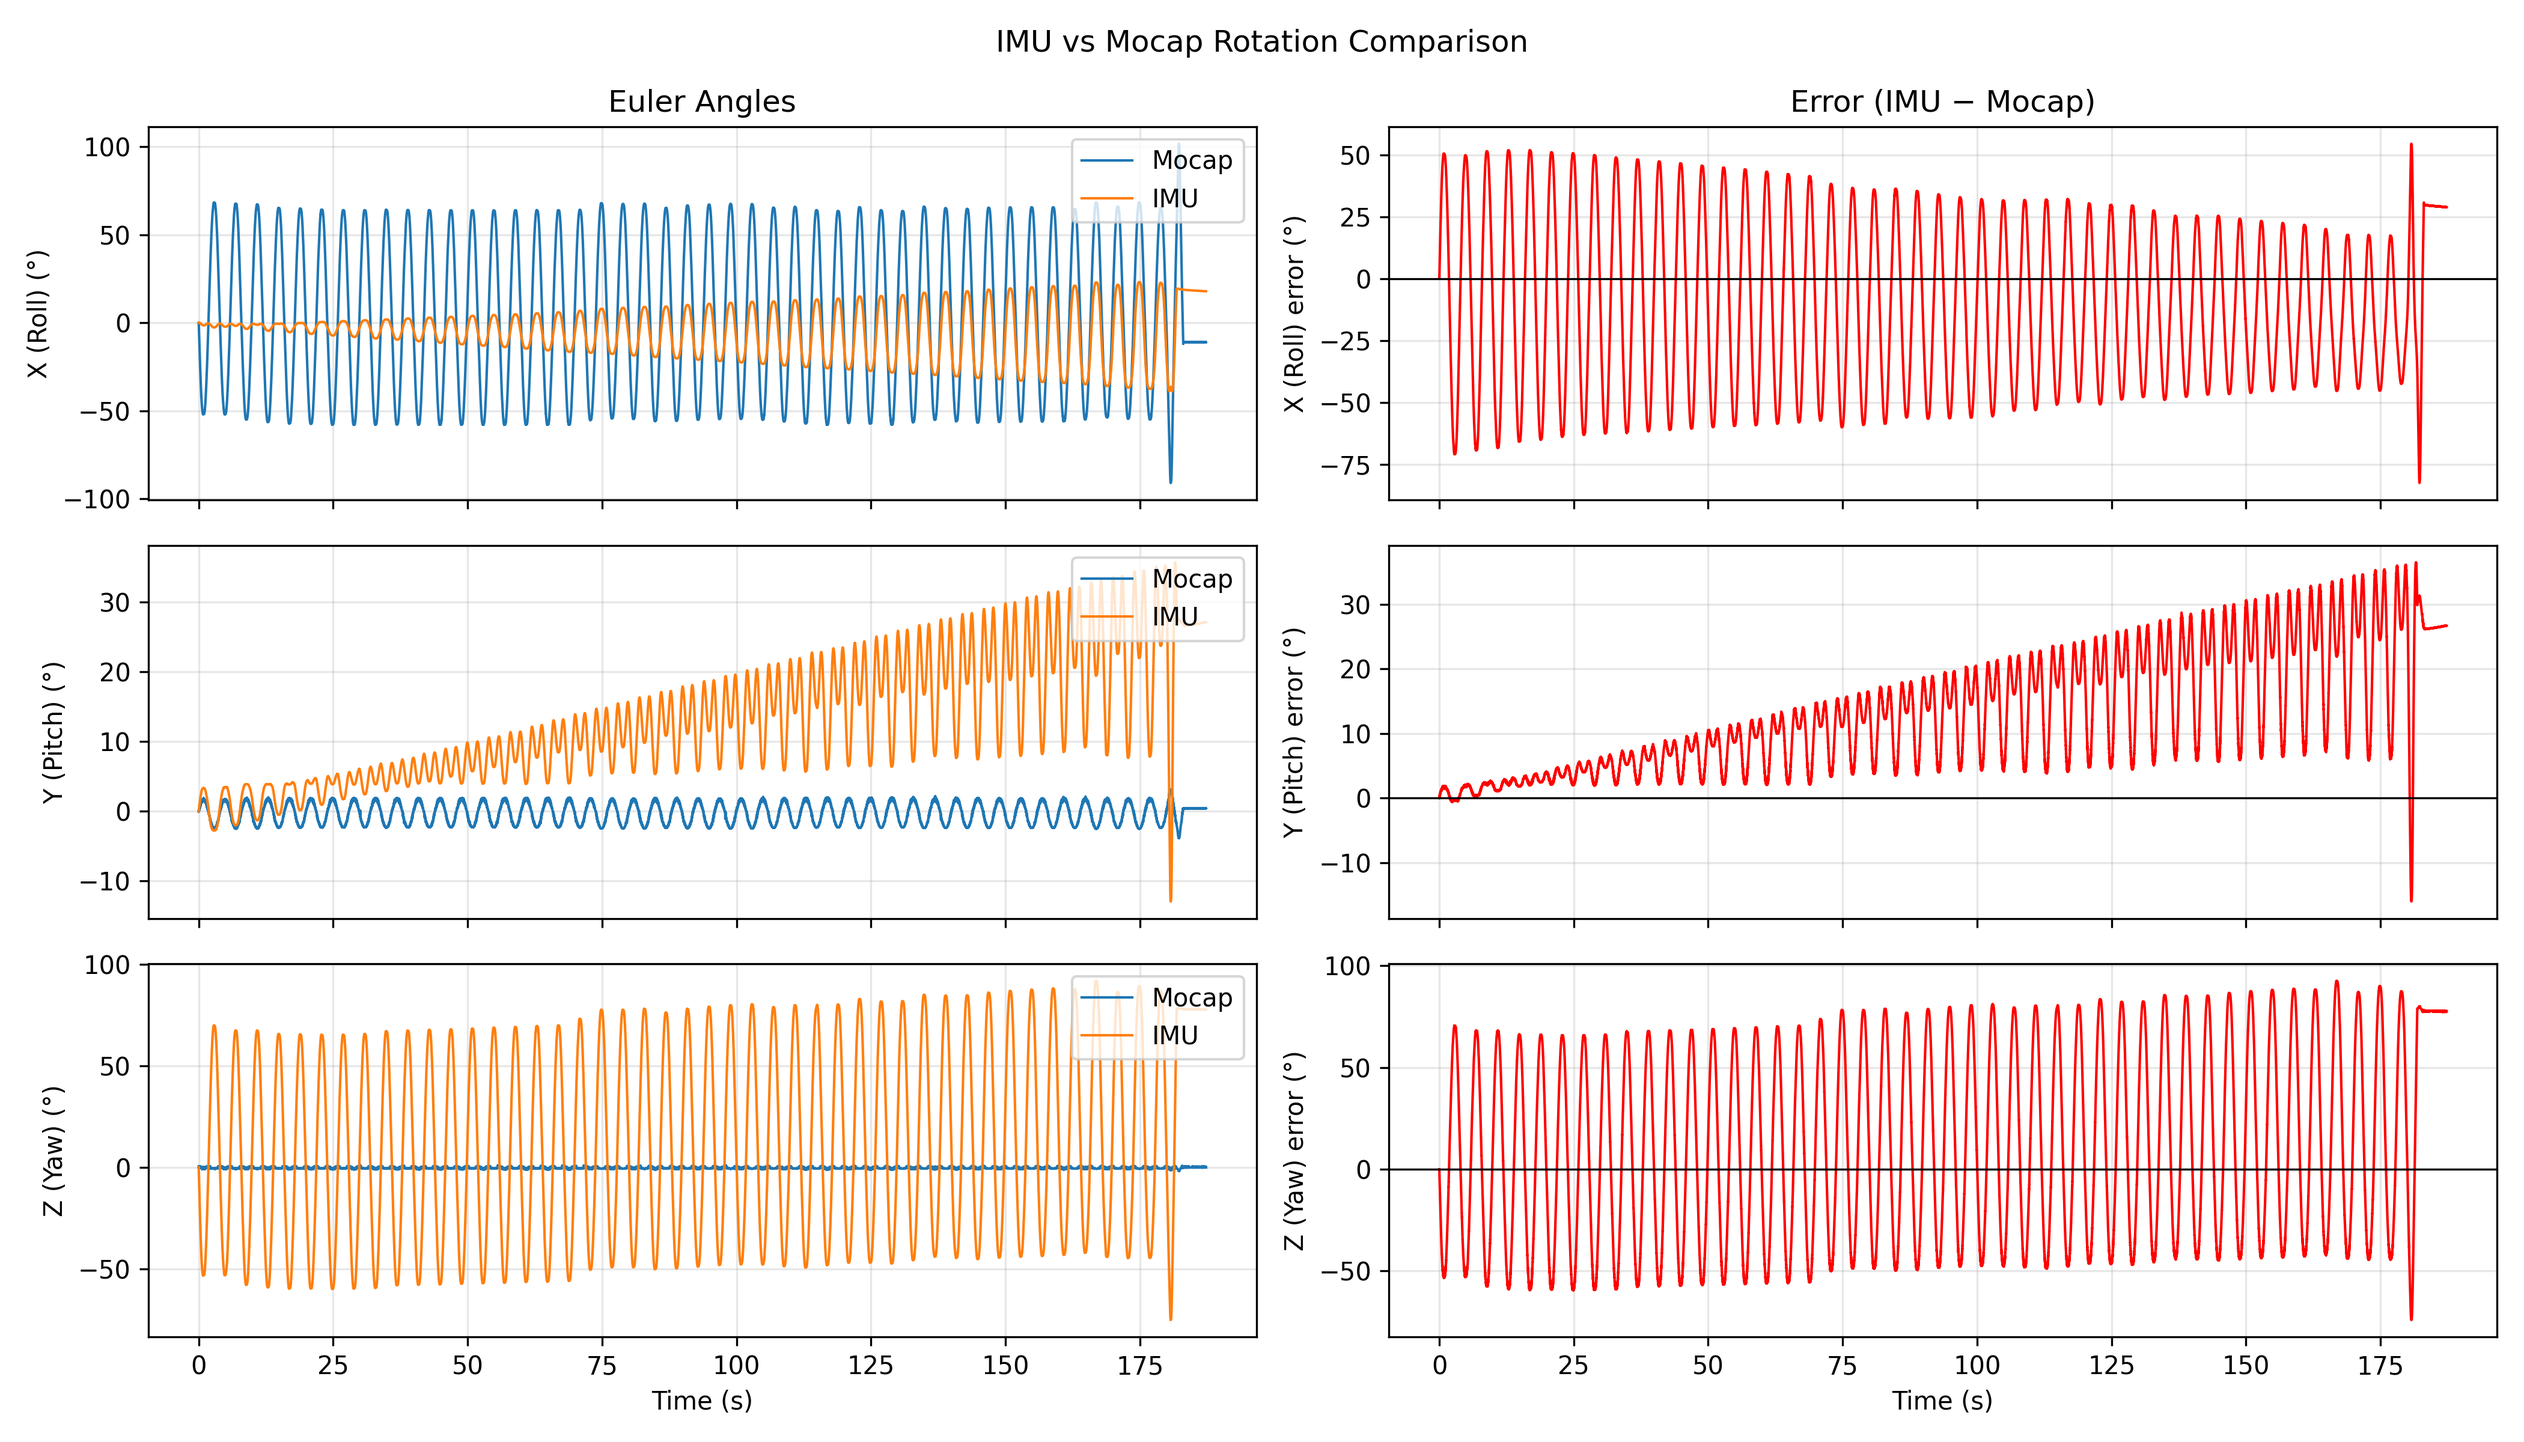
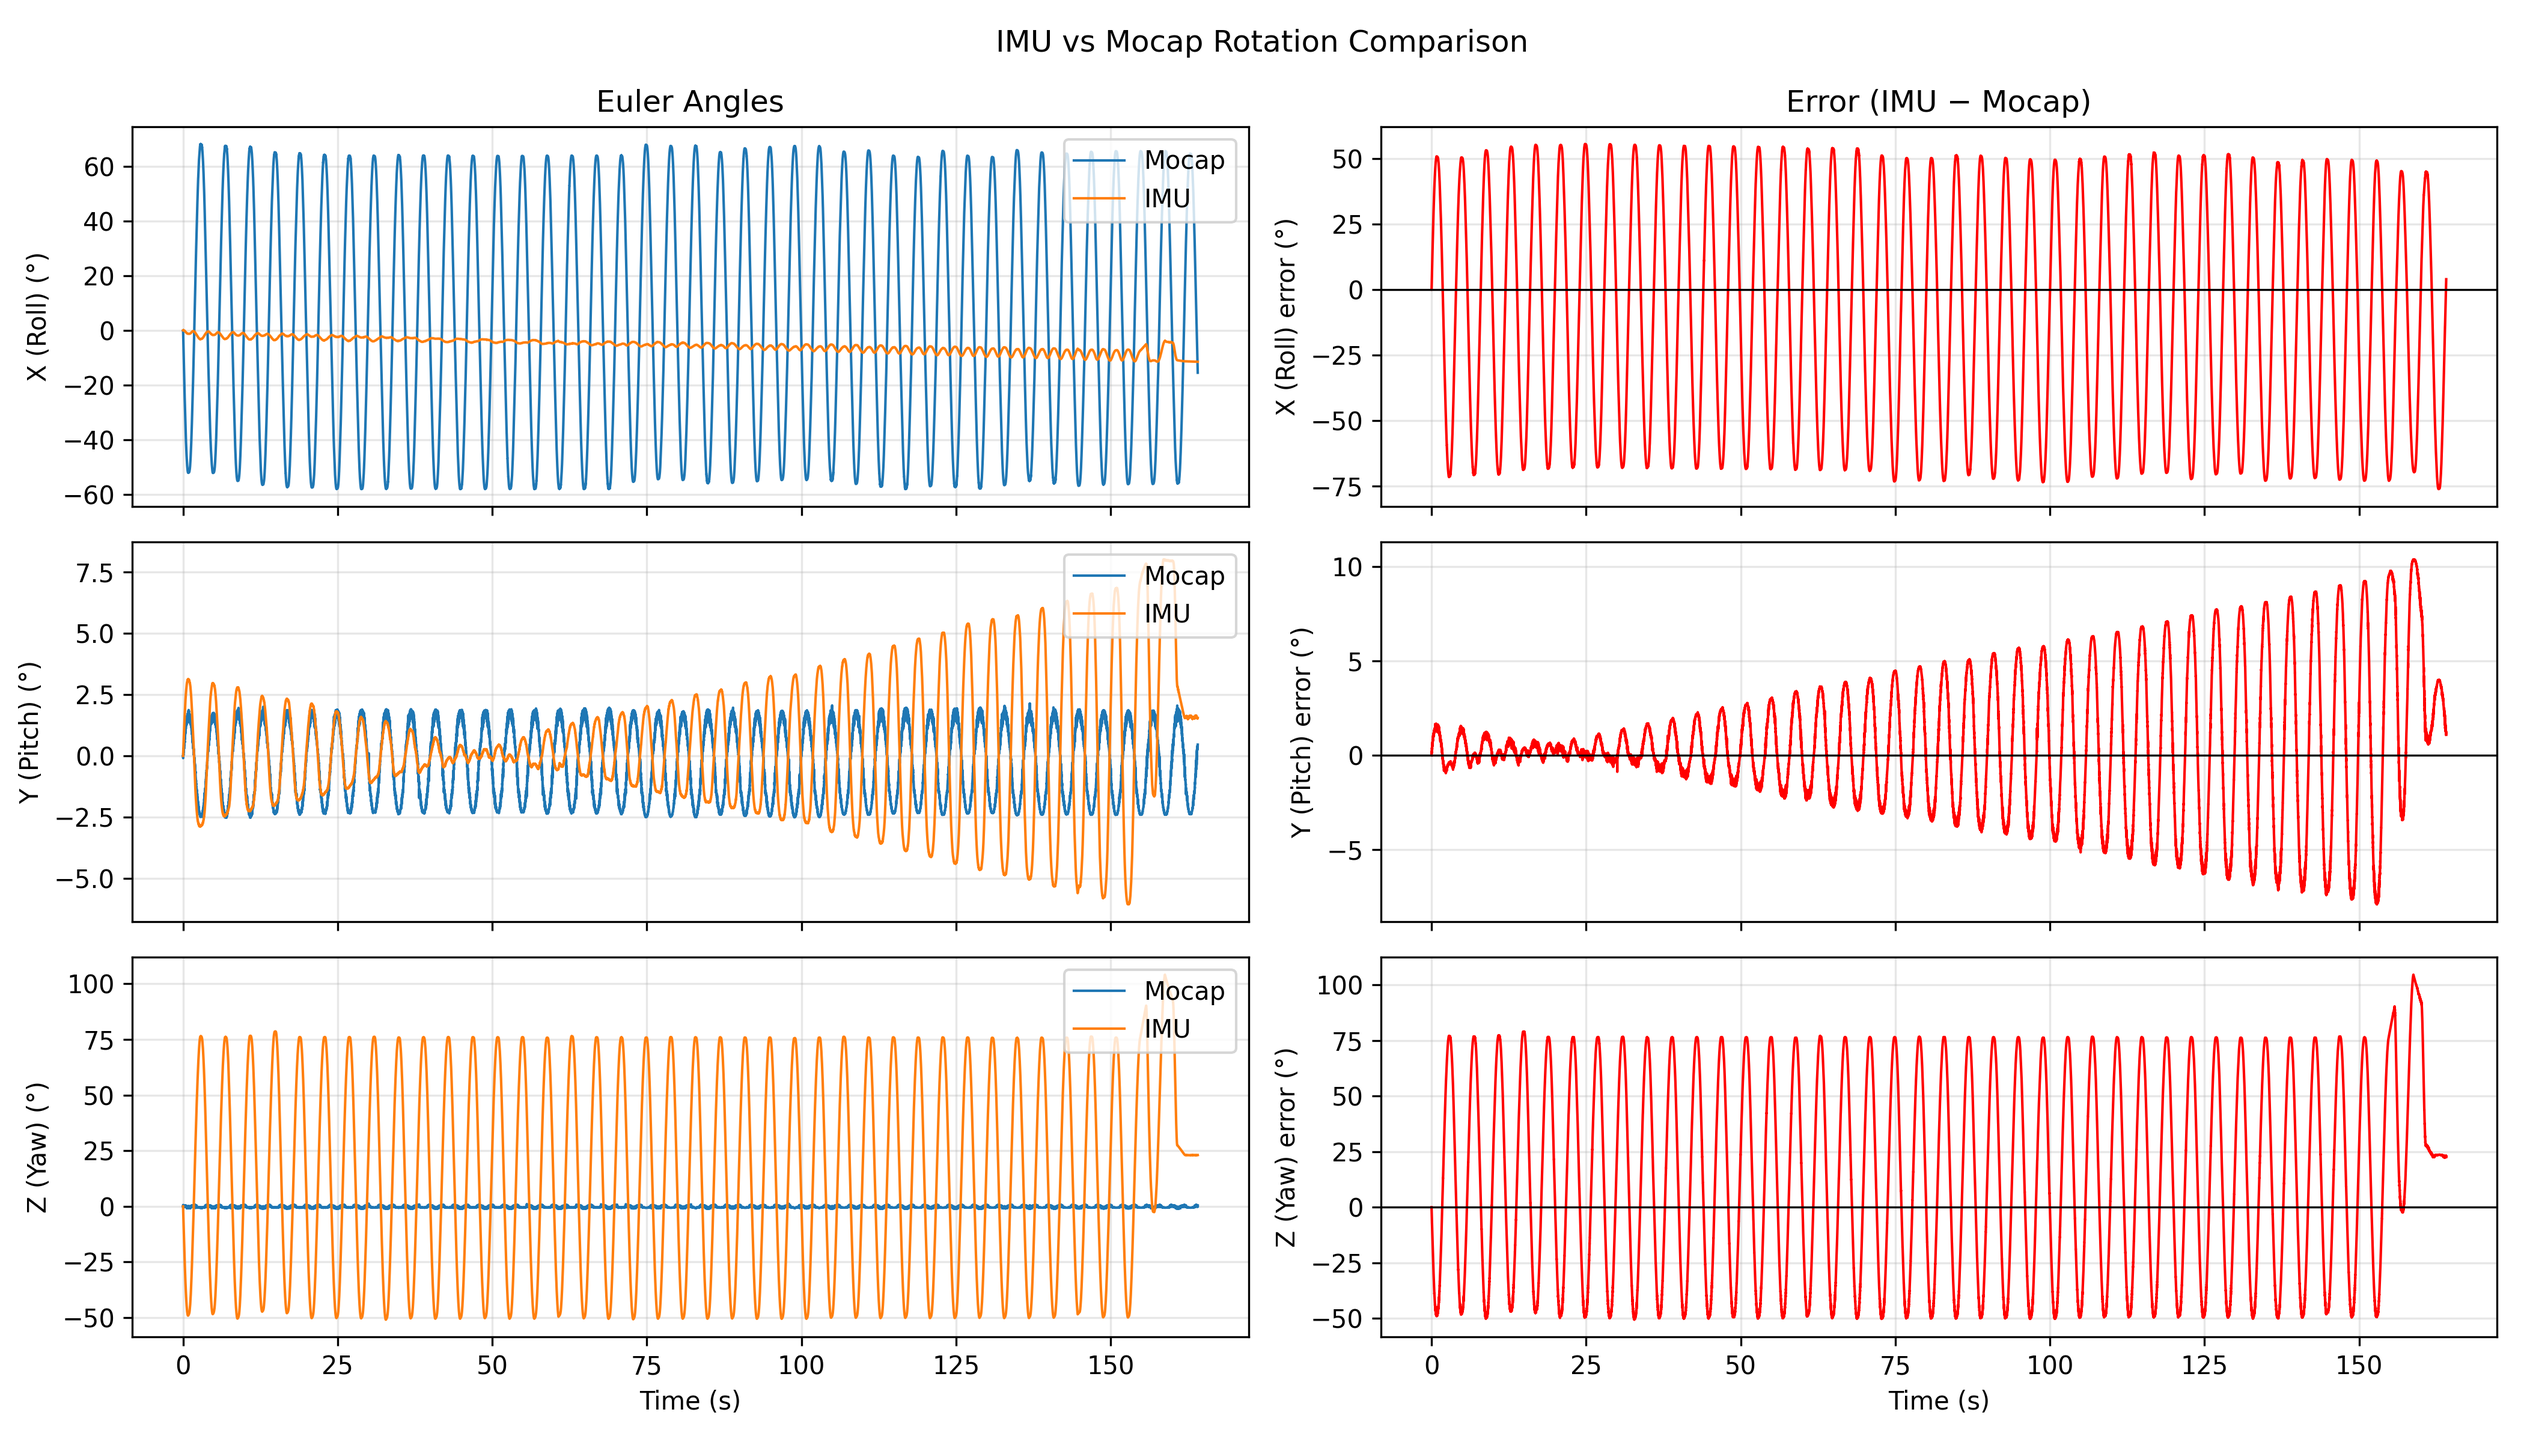
use new filter

diff --git a/verification/script.py b/verification/script.py
@@ -5,6 +5,9 @@ import pandas as pd
 from loguru import logger
 from scipy.spatial.transform import Rotation, Slerp
 import numpy as np
+from calculate_orientation import calculate_orientation
+from imu_python.base_classes import Quaternion
+from imu_python.utils import setup_logger
 
 def parse_mocap_csv(filepath: str | Path) -> pd.DataFrame:
     """Parse a Vicon-style mocap CSV:
@@ -29,13 +32,13 @@ def parse_imu_csv(filepath: str | Path) -> pd.DataFrame:
 
     return df
 
-def quats_to_rotations(df: pd.DataFrame) -> Rotation:
+def quats_to_rotations(quats: list[Quaternion]) -> Rotation:
     """Convert a DataFrame with columns w, x, y, z to a scipy Rotation object.
 
     Returns a Rotation instance containing one rotation per row in the DataFrame.
     """
-    quats = df[["w", "x", "y", "z"]].to_numpy()
-    return Rotation.from_quat(quats, scalar_first=True)
+    quats_array = np.array([[q.w, q.x, q.y, q.z] for q in quats])
+    return Rotation.from_quat(quats_array, scalar_first=True)
 
 def euler_to_rotations(df: pd.DataFrame) -> Rotation:
     """Convert a DataFrame with columns RX, RY, RZ to a scipy Rotation object.
@@ -59,9 +62,11 @@ def calculate_and_apply_rotation(data: Rotation, first_rotation: Rotation | None
 
 def process_imu_data(filepath: str | Path) -> tuple[np.ndarray, Rotation]:
     """Process IMU data from a CSV file and return timestamps and aligned rotations."""
-    imu_df = parse_imu_csv(filepath)
-    timestamps = imu_df["time"].to_numpy()
-    imu_rotations = quats_to_rotations(imu_df)
+    # imu_df = parse_imu_csv(filepath)
+    # timestamps = imu_df["time"].to_numpy()
+    timestamps, quats = calculate_orientation(filepath=filepath, gain=0.002250, trim=3800.022202)
+    timestamps = timestamps - timestamps[0]  # normalize to start at 0
+    imu_rotations = quats_to_rotations(quats=quats)
     imu_rotations_aligned = calculate_and_apply_rotation(imu_rotations)
     return timestamps, imu_rotations_aligned
 
@@ -132,9 +137,10 @@ def interpolate_imu_to_mocap_grid(
 
 
 if __name__ == "__main__":
+    setup_logger(log_level="INFO")
     root  = Path(__file__).resolve().parents[1]
     mocap_timestamps, mocap_rotations = process_mocap_data(root / "data/mocap/trimmed/bno055_01_mocap.csv")
-    imu_timestamps, imu_rotations = process_imu_data(root / "data/mocap/trimmed/bno055_01_imu.csv")
+    imu_timestamps, imu_rotations = process_imu_data(root / "data/test_recordings/imu_data_BNO055_0_7_nomag.csv")
     imu_interpolated, valid_mask = interpolate_imu_to_mocap_grid(
         imu_timestamps, imu_rotations, mocap_timestamps
     )

diff --git a/verification/calculate_orientation.py b/verification/calculate_orientation.py
@@ -1,25 +1,36 @@
+import math
 from pathlib import Path
 
+import numpy as np
 from numpy.typing import NDArray
 
 from imu_python.data_handler.data_reader import load_imu_data
 from imu_python.base_classes import Quaternion
-from imu_python.orientation_filter import OrientationFilter
+from imu_python.orientation_filters import MadgwickFilterPyImu, MadgwickFilterAHRS
 
-def calculate_orientation(filepath: str | Path, gain: float) -> tuple[NDArray, list[Quaternion]]:
-    """Calculate orientation from file using orientation filter in imu_python."""
+def calculate_orientation(filepath: str | Path, gain: float, trim: float = 0.0) -> tuple[NDArray, list[Quaternion]]:
+    """Calculate orientation from file using orientation filter in imu_python.
+
+    Timestamps (and the corresponding sensor samples) before the `trim`
+    threshold are discarded.
+    """
     imu_data_raw = load_imu_data(filepath=Path(filepath))
-    time = imu_data_raw.time
-    accels = imu_data_raw.accels
-    gyros = imu_data_raw.gyros
-    mags = imu_data_raw.mags
+
+    time = np.asarray(imu_data_raw.time)
+    trim_mask = time >= trim
+    time = time[trim_mask]
+
+    accels = [a for i, a in enumerate(imu_data_raw.accels) if trim_mask[i]]
+    gyros = [g for i, g in enumerate(imu_data_raw.gyros) if trim_mask[i]]
+    mags = [m for i, m in enumerate(imu_data_raw.mags) if trim_mask[i]]
+
     quats: list[Quaternion] = []
-    filter = OrientationFilter(gain=gain, frequency=0.01)
-    for i in range(len(time)):
-        timestamp = time[i]
+    filter = MadgwickFilterPyImu(gain=gain, frequency=0.01)
+
+    for i, timestamp in enumerate(time):
         accel = accels[i].as_array()
         gyro = gyros[i].as_array()
-        mag = mags[i].as_array()
+        mag = mags[i].as_array() if not math.isnan(mags[i].x) else None
 
         quats.append(filter.update(
             timestamp=timestamp,
@@ -27,5 +38,10 @@ def calculate_orientation(filepath: str | Path, gain: float) -> tuple[NDArray, l
             gyro=gyro,
             mag=mag,
         ))
+
     assert len(time) == len(quats)
     return time, quats
+
+if __name__ == "__main__":
+    time,quats=calculate_orientation(filepath="/home/haoqing/Thesis Project/imu-module/data/test_recordings/imu_data_BNO055_0_7_nomag.csv", gain=0.002250, trim=3800.022202)
+    print(quats[0])
